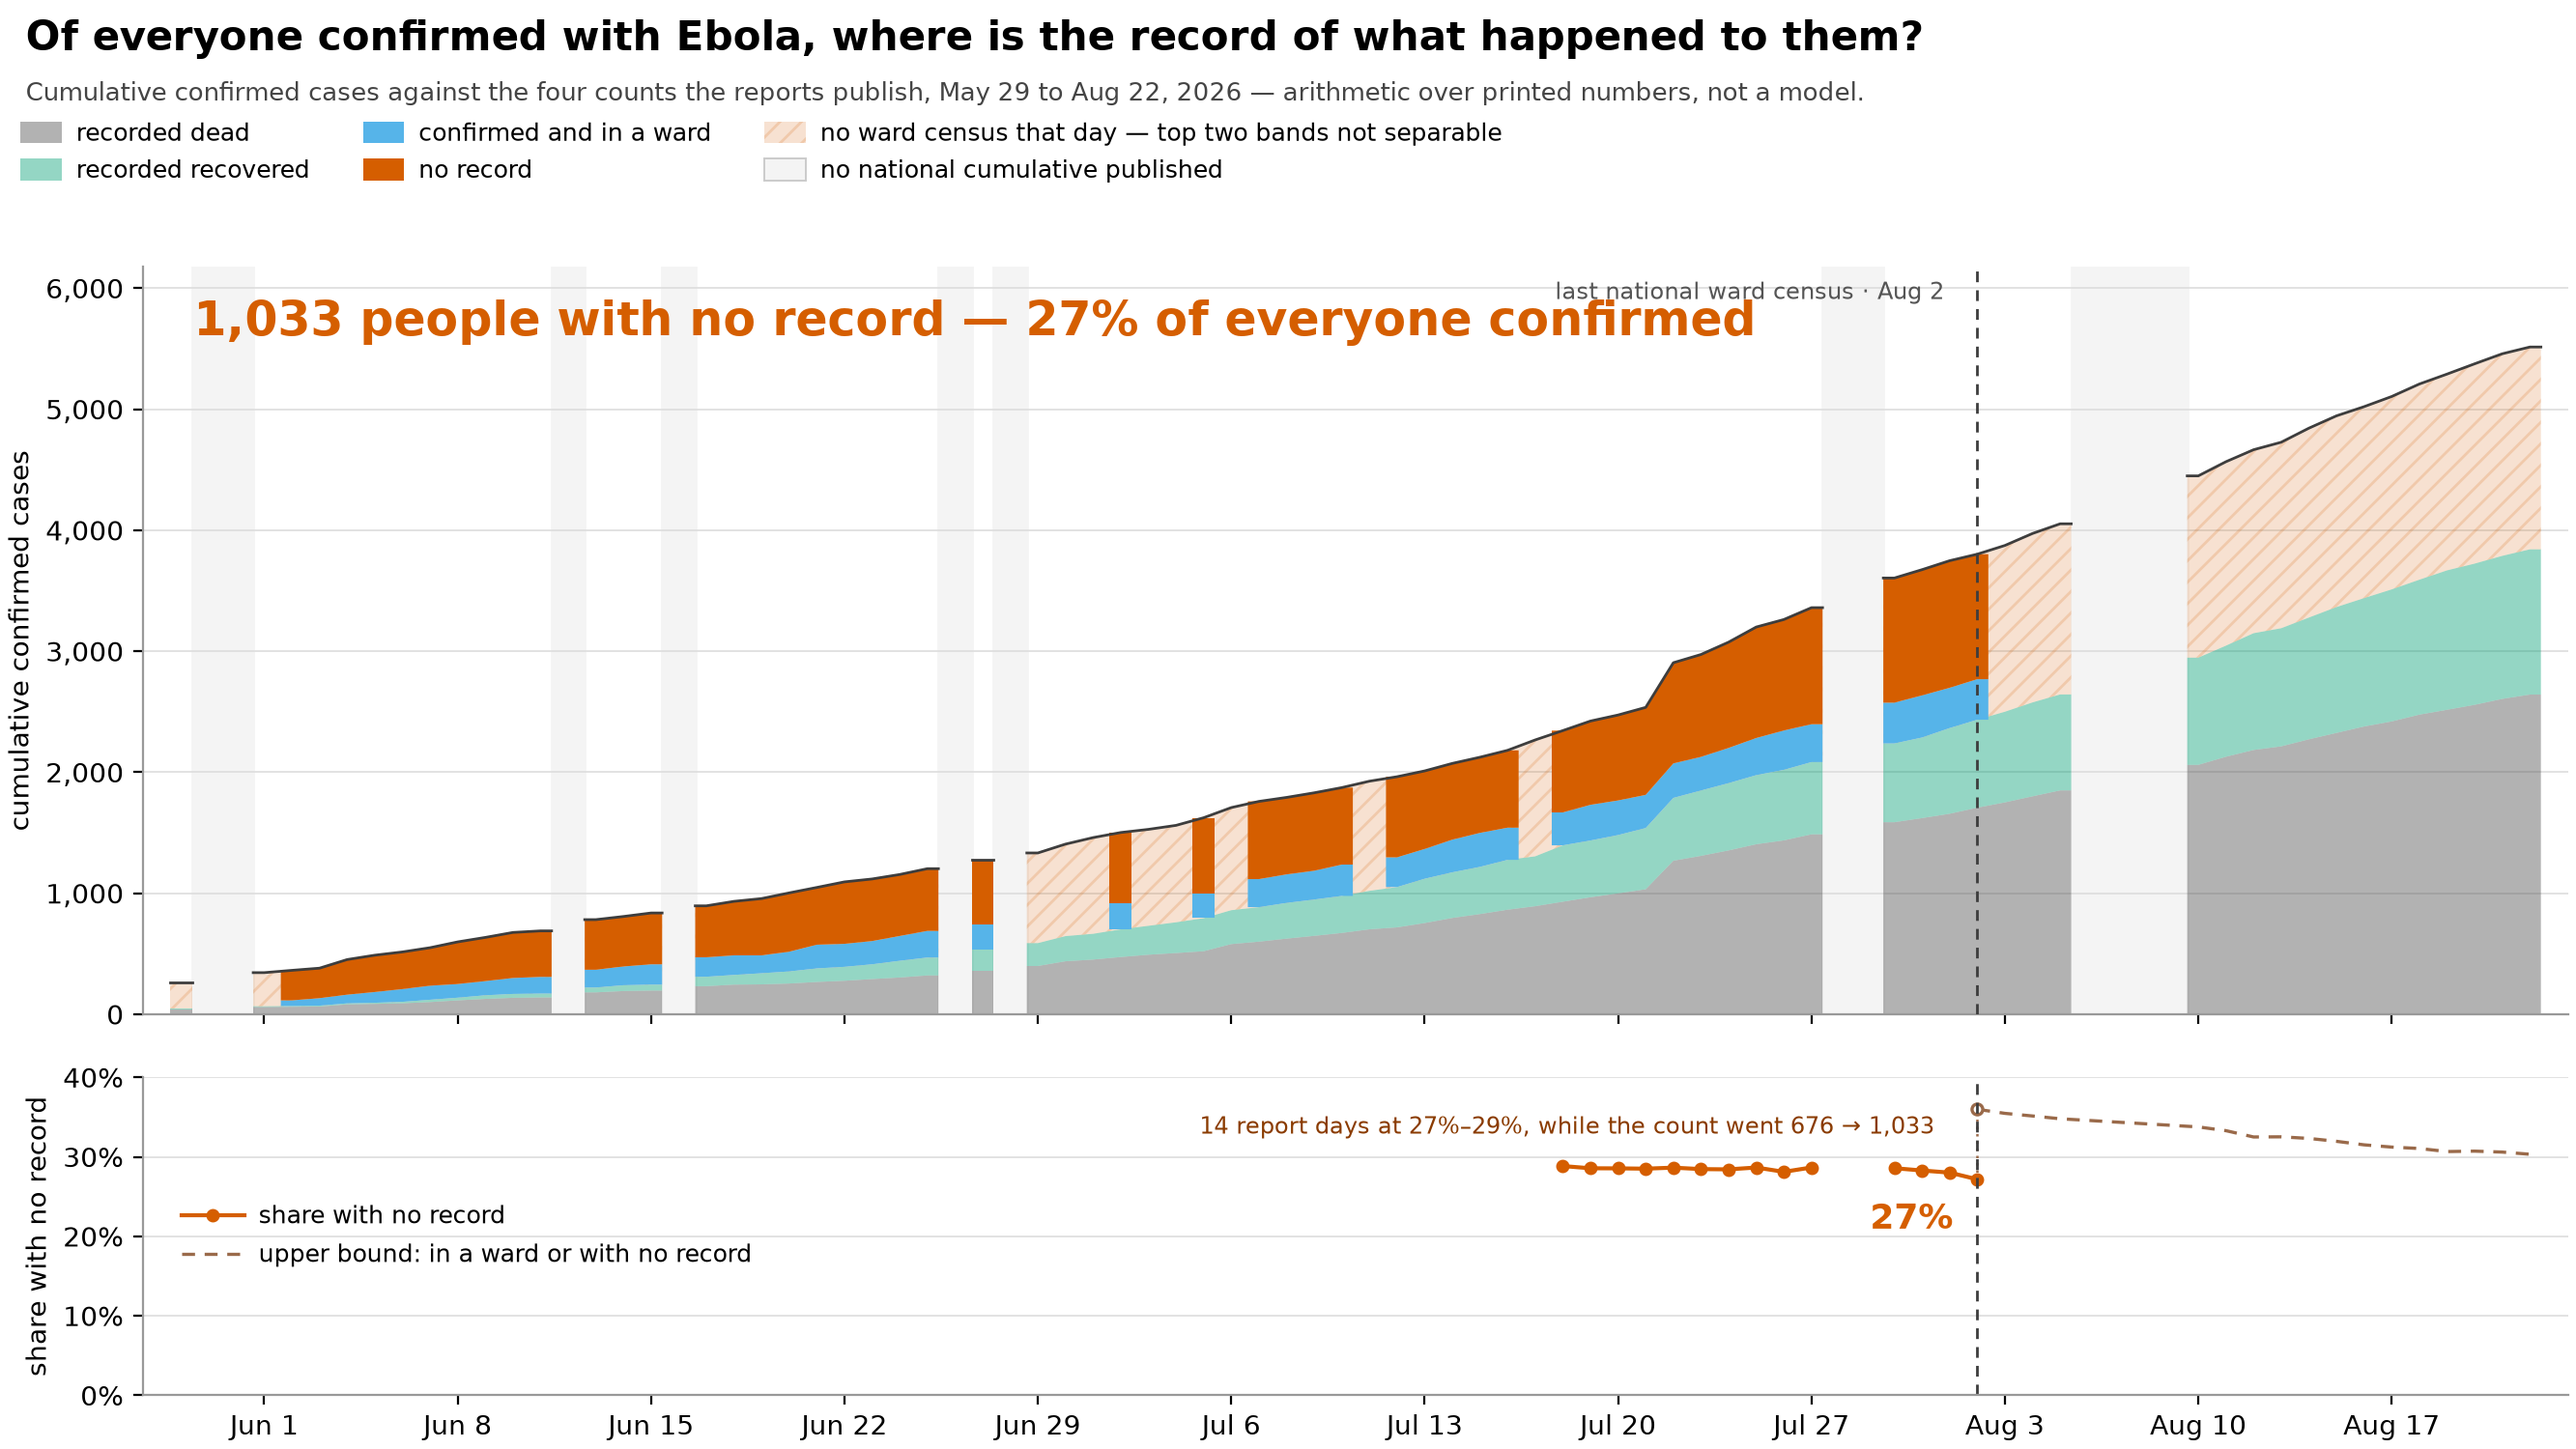
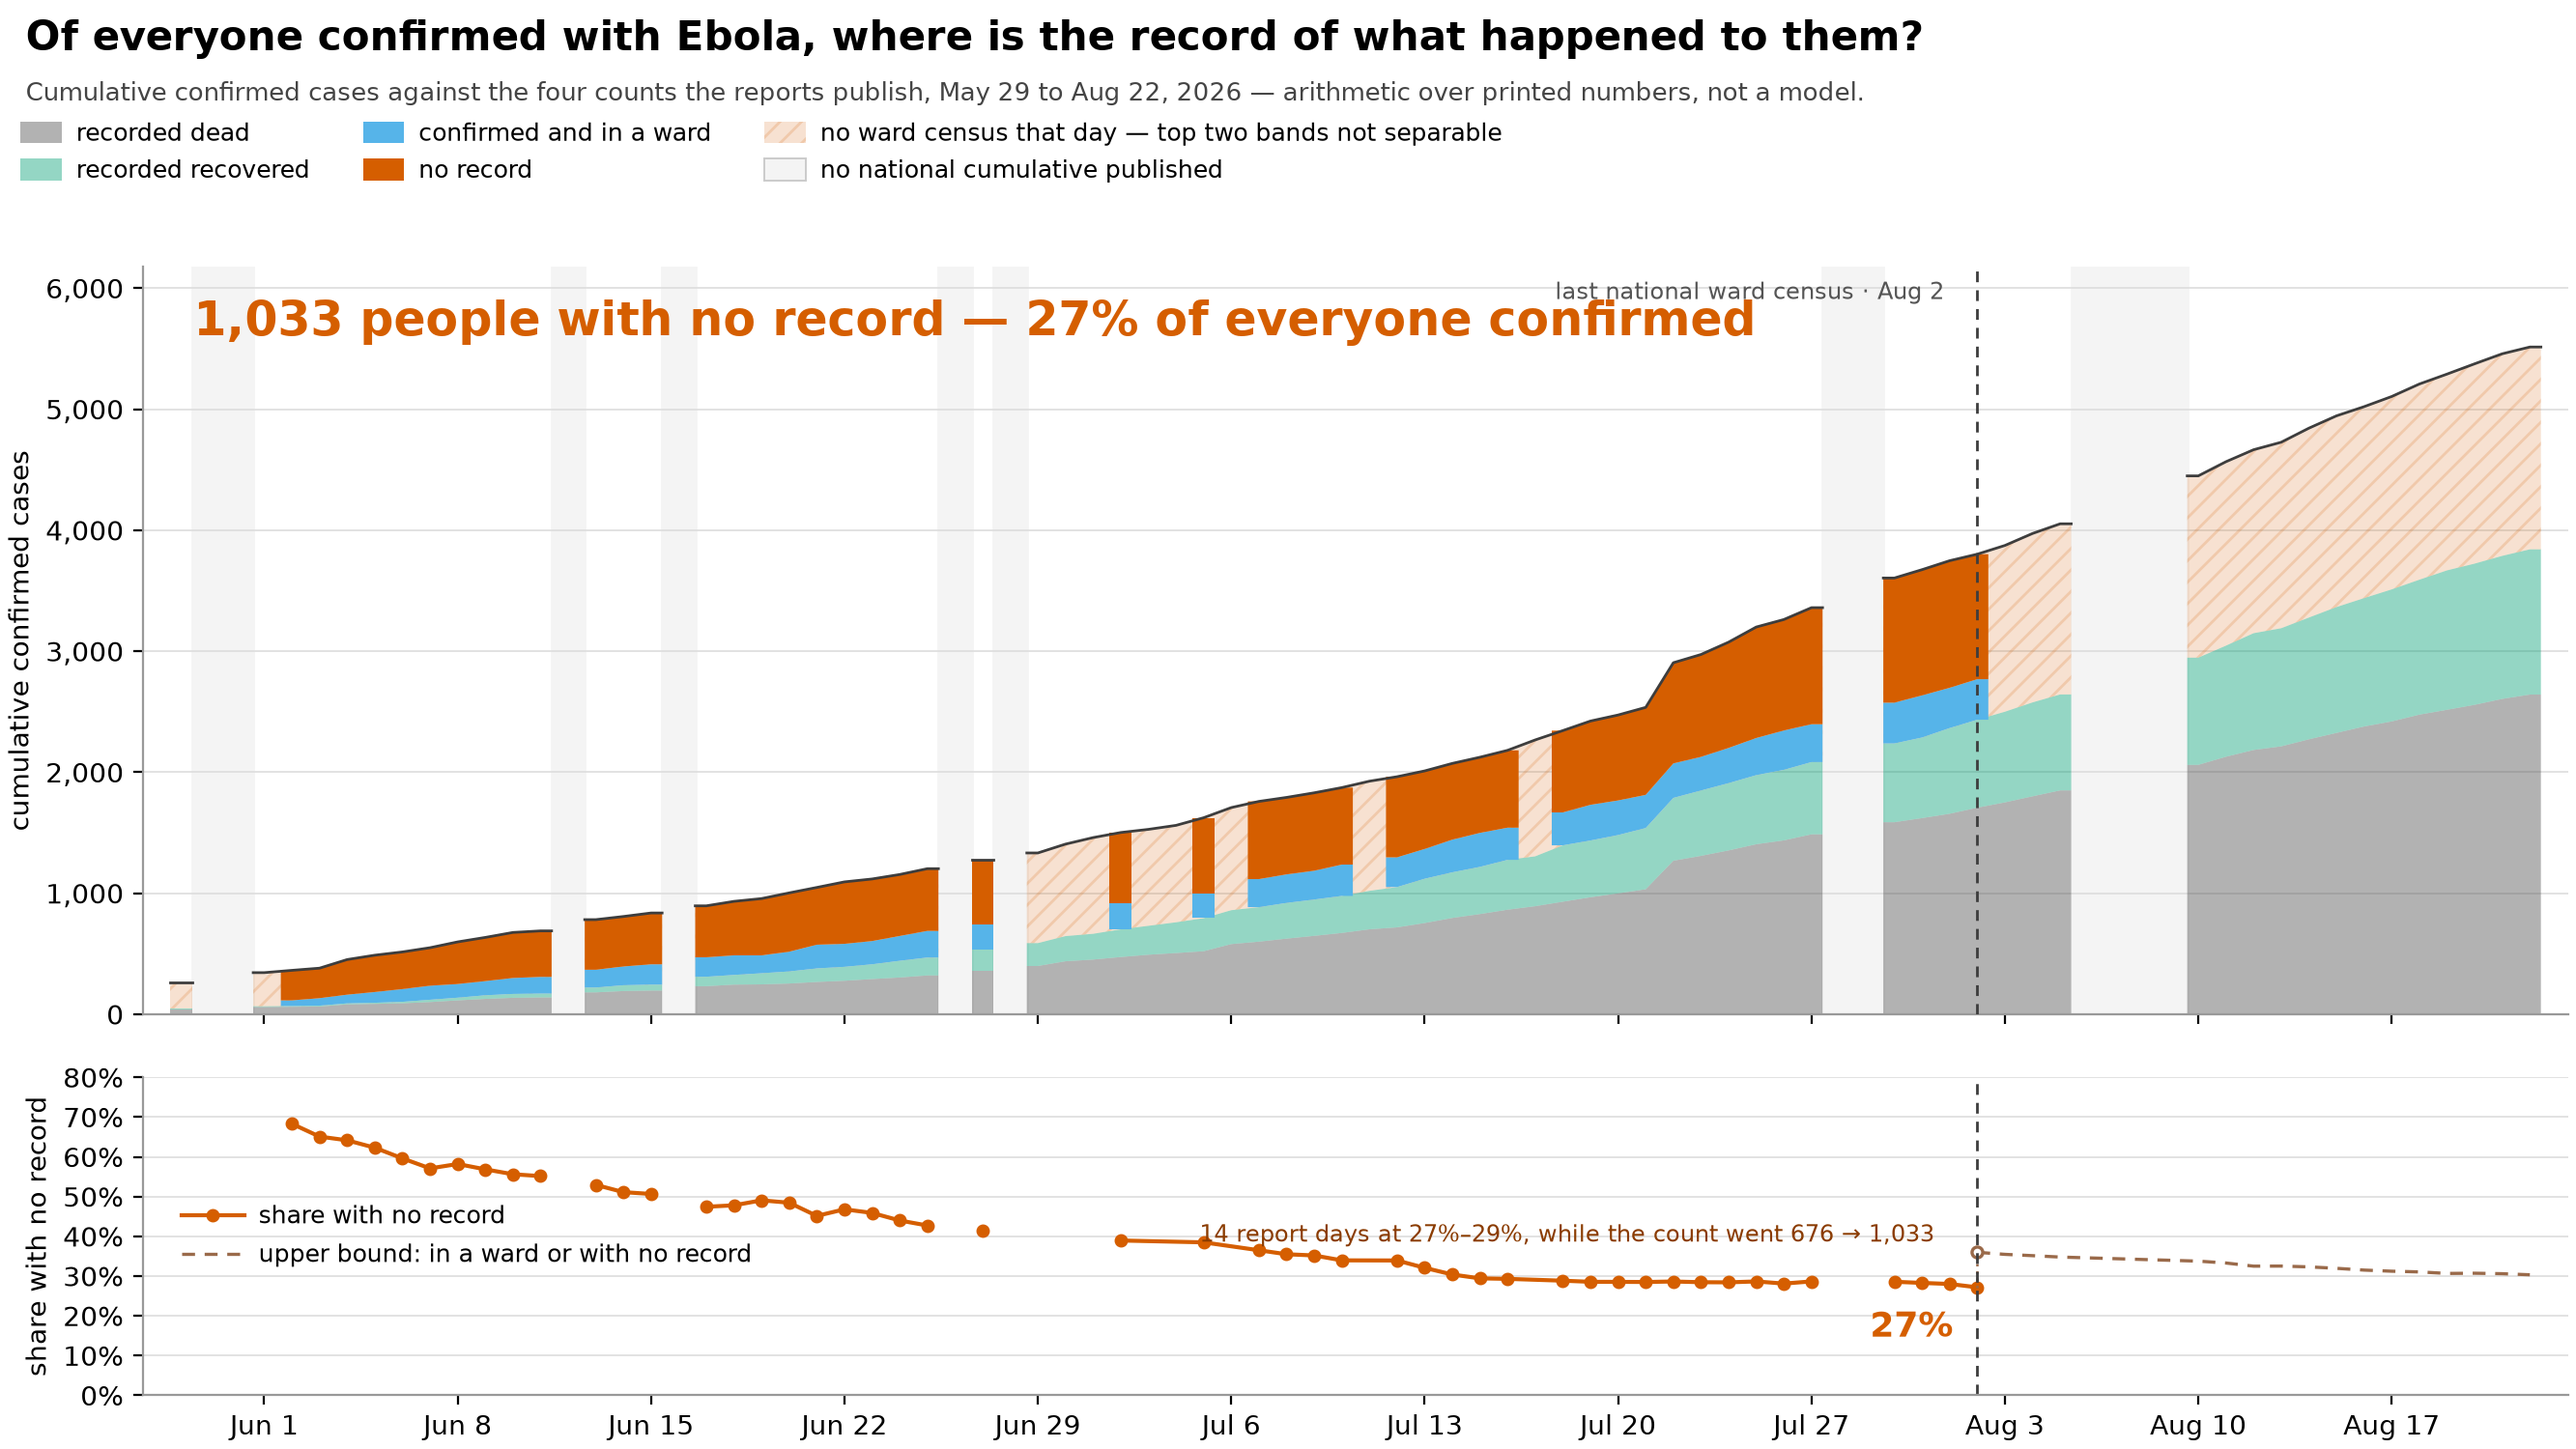
outcomes: draw every day in the share panel, break it rather than truncate it
The share panel was drawn from the first day of the final unbroken run of
report days carrying all four counts. That criterion keeps FOUR of the 48 such
days: there are nine breaks between 2 June and 2 August, and each one restarts
the run.

The breaks are report days with no bulletin or no census. Panel A already
marks them. Deleting two months of a good series to avoid joining a line
across them trades a real observation for a cosmetic one, and `_outcome_segments`
already breaks the line at exactly those days, so nothing was gained.

Every day carrying all four counts is now drawn.

The reason the truncation existed is real and stays -- the June fall from two
thirds to under a third is not an improvement in how many people the response
was locating, because a case confirmed last week has no outcome recorded yet
and the recovery and ward ledgers begin inside that window. That belongs in
the caption, where it takes a sentence, rather than being enforced by removing
the data. `docs/figures/README.md` now says it, and says what the panel
actually argues: the flat stretch at the end, not the slope into it.

347 passed, ten figures reproducible from a fresh clone.

Claude-Session: https://claude.ai/code/session_015tkmBJ2UNKTmshByKopqW2

diff --git a/scripts/plot_figures.py b/scripts/plot_figures.py
@@ -1549,15 +1549,20 @@ def draw_outcomes(inputs: dict[str, Path], out: Path) -> None:
     # draws its share the same way: the flatness is the finding, and a smoother
     # would manufacture it.
     #
-    # DRAWN FROM `run_start` ONLY, on the shared calendar rather than on a
-    # calendar of its own. Before that day the share falls from two thirds to
-    # under a third for reasons unrelated to how many people the response was
-    # locating -- recent cases have no outcome recorded yet, and the recovery
-    # and ward ledgers begin inside that window -- so a slope drawn there
-    # reads as an improvement it is not. Not drawing it asserts nothing, which
-    # is the cheapest way to be right. The axis is still panel A's, so the
-    # rule at the census's last day stands in the same place on both.
-    shown = led.filter(pl.col("date") >= pl.lit(h["run_start"]))
+    # EVERY REPORT DAY THAT CARRIES ALL FOUR COUNTS IS DRAWN, and the line is
+    # broken across the days that do not rather than truncated back to the
+    # last unbroken run. Truncating kept 4 of the 48 such days: the nine
+    # breaks in this span are report days with no bulletin or no census, which
+    # panel A already marks, and dropping two months of a good series to avoid
+    # joining across them trades a real observation for a cosmetic one.
+    #
+    # The early share IS high -- around two thirds in June, falling to under a
+    # third -- and that fall is not an improvement in how many people the
+    # response was locating: recent cases have no outcome recorded yet, and
+    # the recovery and ward ledgers begin inside that window. That belongs in
+    # the caption, where it can be said in a sentence, rather than being
+    # enforced by deleting the data. `docs/figures/README.md` says it.
+    shown = led
     for seg in _outcome_segments(shown):
         c = seg.drop_nulls("unaccounted_share")
         if c.height:

diff --git a/docs/figures/README.md b/docs/figures/README.md
@@ -107,15 +107,19 @@ Three things the figure draws that the legend can only name:
   handover is why the lower panel switches from a solid measured share to a
   dashed upper bound at that date: after it, only *in a ward **or** with no
   record* can be asserted.
-- **The share panel starts late, and that is deliberate.** It is drawn from the
-  first day of the final unbroken run of report days carrying all four counts.
-  Earlier the share falls steeply, from about two thirds to under a third, for
-  two reasons unrelated to how many people the response was locating: a case
-  confirmed last week has no outcome recorded yet whatever happens to it, and
-  the recovery and ward ledgers themselves begin inside that window. A slope
-  drawn out of that reads as improvement and is not one, so it is not drawn.
-  The panel keeps the full shared calendar, so the rule at the census's last
-  day stands in the same place in both panels.
+- **DO NOT READ THE JUNE FALL AS AN IMPROVEMENT.** The share drops from about
+  two thirds to under a third across June and early July, for two reasons that
+  have nothing to do with how many people the response was locating: a case
+  confirmed last week has no outcome recorded yet whatever eventually happens
+  to it, and the recovery and ward ledgers themselves only begin inside that
+  window. What the panel argues is the FLAT STRETCH at the end — 14 report
+  days at 27–29% while the count itself went 676 to 1,033 — not the slope into
+  it.
+- **The share line is broken, not truncated.** Every one of the 48 report days
+  carrying all four counts is drawn; the line is cut where a day carries none,
+  which is a day with no bulletin or no census and is marked in the panel
+  above. The panel shares panel A's calendar, so the rule at the census's last
+  day stands in the same place in both.
 
 ## `ascertainment.png`
 
